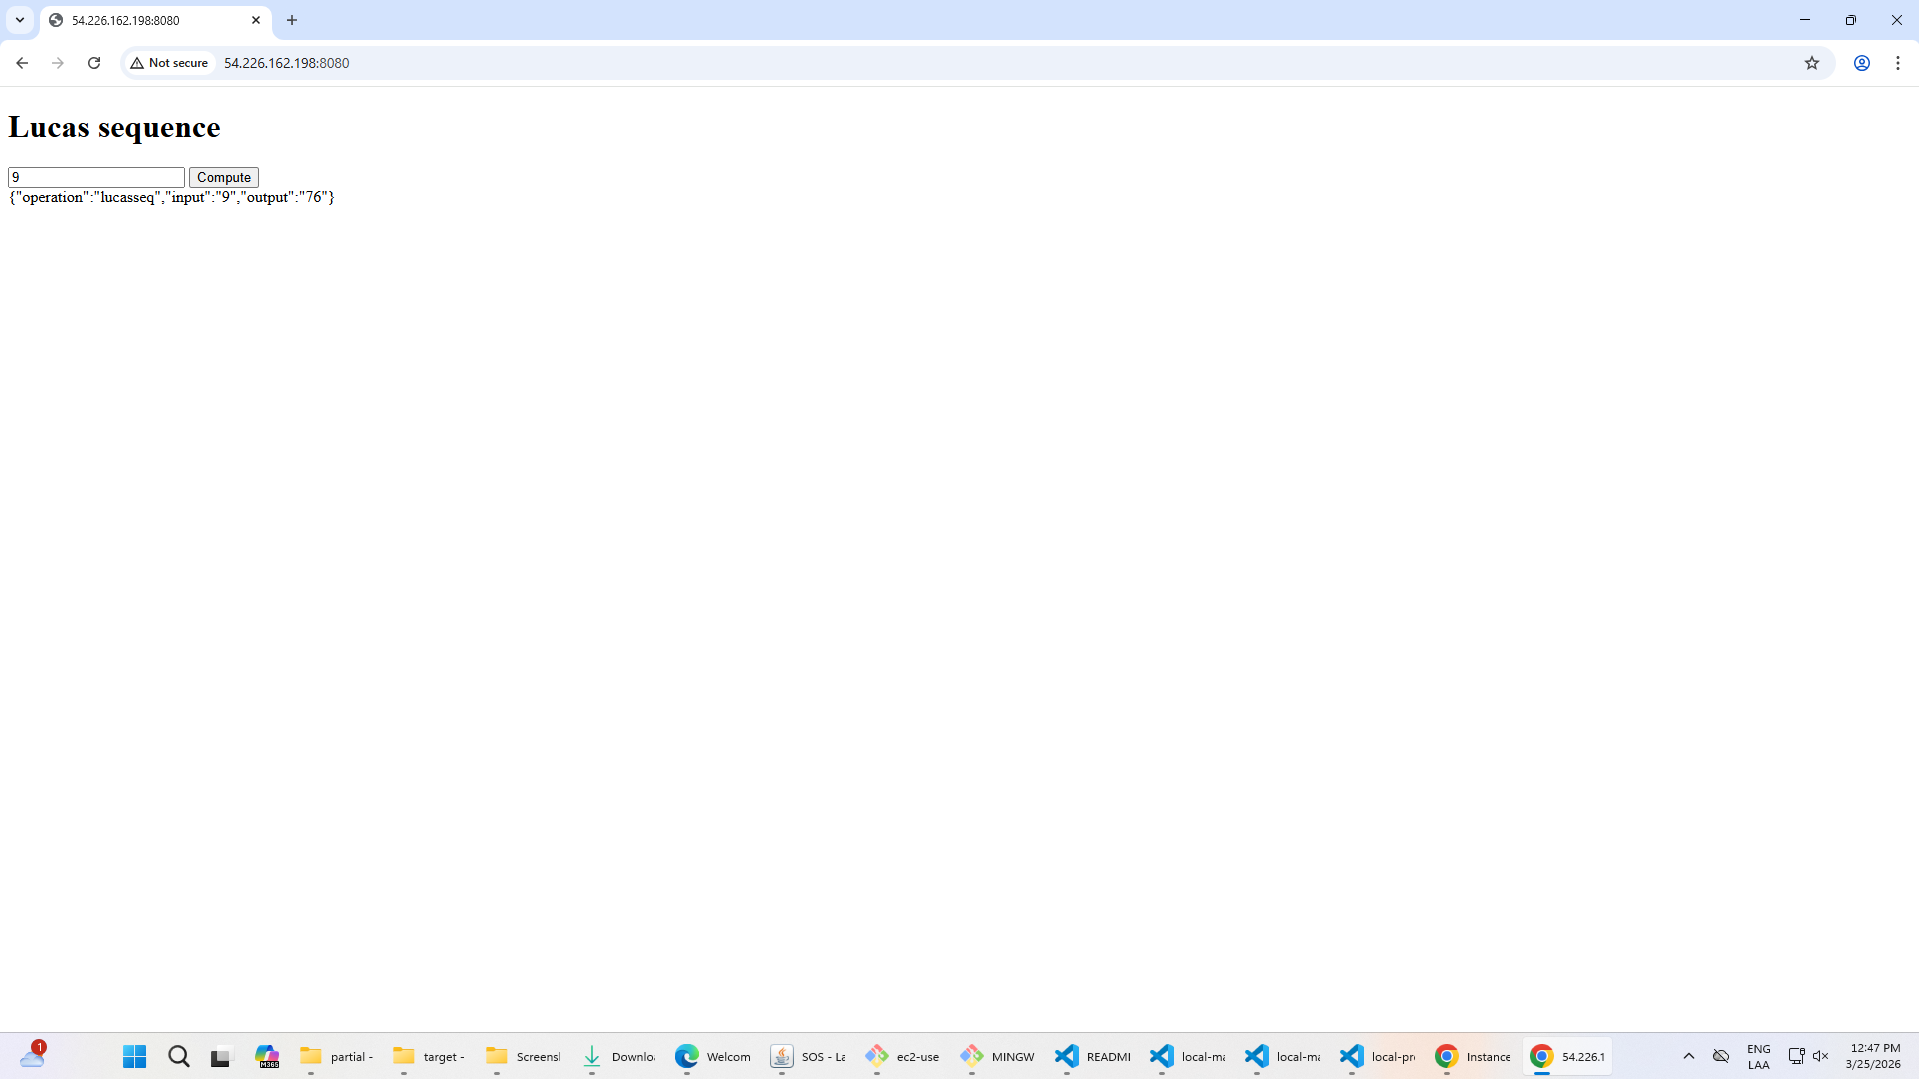
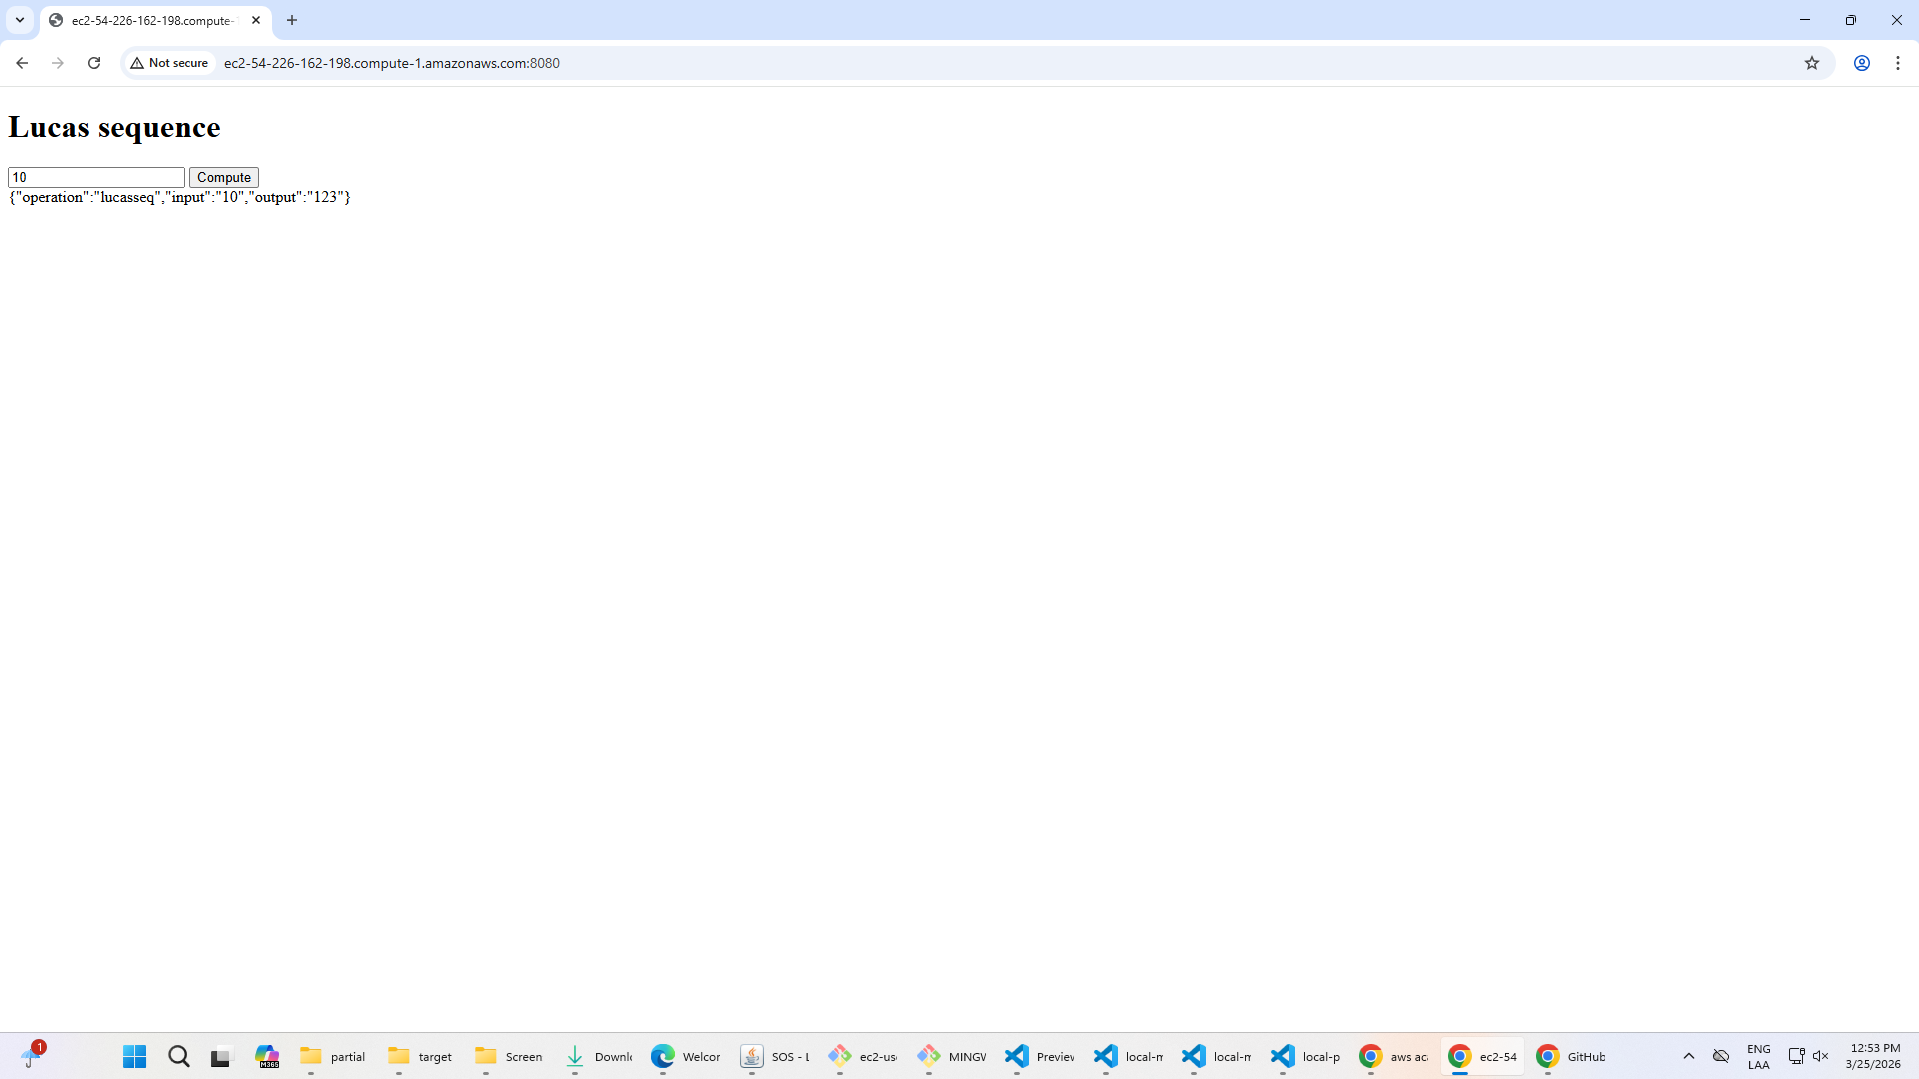
feat: change ipv4 for dns ipv

diff --git a/README.md b/README.md
@@ -113,5 +113,5 @@ java -jar proxy-0.0.1-SNAPSHOT.jar
 ---
 
 ## 9. Verify and record
-Open `http://54.226.162.198:8080` browser
+Open `http://54.226.162.198:8080` or `http://ec2-54-226-162-198.compute-1.amazonaws.com:8080/` in browser
 ![broser navegation through proxy](imgs/browser-proxy-implementation.png)
